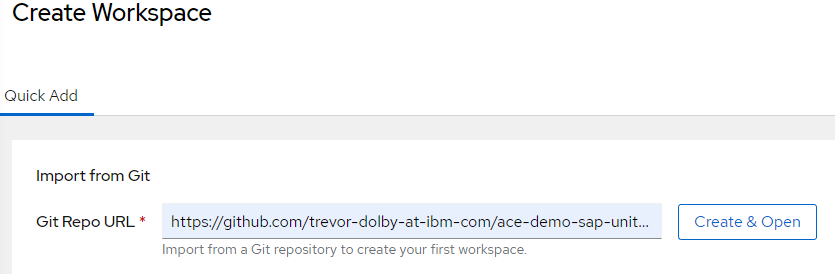
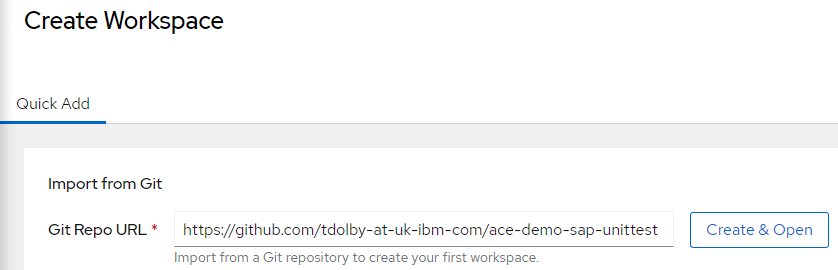
Update repo location

diff --git a/README-dev-spaces.md b/README-dev-spaces.md
@@ -15,7 +15,7 @@ good way to ensure the operator is working as expected:
 ![Empty Workspace](/images/dev-spaces-empty-workspace.png)
 
 Once that has succeeded, it should be deleted and a new ACE workspace created by pasting
-the URL of this repo (`https://github.com/trevor-dolby-at-ibm-com/ace-demo-sap-unittest`)
+the URL of this repo (`https://github.com/tdolby-at-uk-ibm-com/ace-demo-sap-unittest`)
 into the `Git Repo URL` field of the the `Create Workspace` page:
 
 ![git URL](/images/dev-spaces-create-workspace.png)
